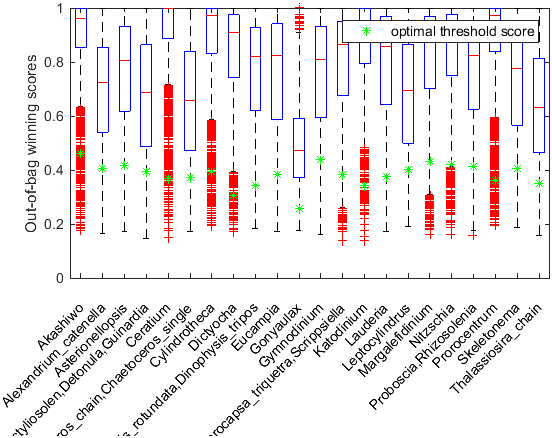
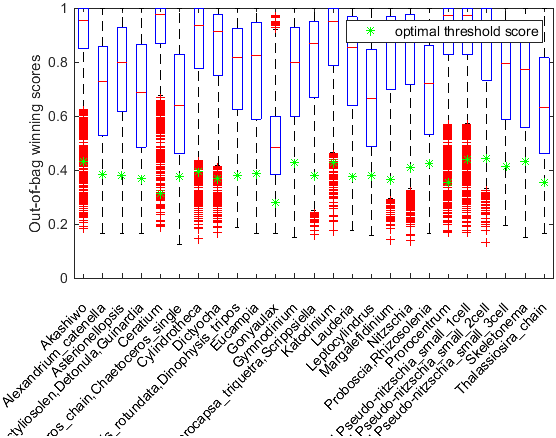
new classifier 10

diff --git a/IFCB-Tools/plot_classifier_performance.m b/IFCB-Tools/plot_classifier_performance.m
@@ -1,9 +1,9 @@
 clear;
 Mac=0;
-name='BI_v1';
+name='CCS_v10';
+%name='BI_v1';
 
 %name='BI_NOAA-OSU_v1';
-%name='CCS_NOAA-OSU_v4';
 
 if Mac
     basepath = '~/Documents/MATLAB/bloom-baby-bloom/';    
@@ -12,14 +12,14 @@ if Mac
     figpath = [filepath 'Figs/'];
 else
     basepath='C:\Users\ifcbuser\Documents\GitHub\bloom-baby-bloom\';
-    filepath = [basepath 'IFCB-Data\BuddInlet\class\'];
+    filepath = [basepath 'IFCB-Data\Shimada\class\'];
     classidx=[basepath 'IFCB-Tools\convert_index_class\class_indices.mat'];    
     figpath = [filepath 'Figs\'];    
 end
 addpath(genpath(basepath));
 
 load([filepath 'performance_classifier_' name],'topfeat','maxthre','all','opt','thr','c_thr','c_all','c_opt','trainingset');
-
+%%
 [~,class]=get_class_ind( all.class,'all',classidx);
 [~,classU]=get_class_ind( opt.class,'all',classidx);
 maxn=round(max([opt.total]),-2);

diff --git a/IFCB-Tools/build_classifier/train_build_classifier.m b/IFCB-Tools/build_classifier/train_build_classifier.m
@@ -24,7 +24,8 @@ clearvars  mergedpath UCSCpath SHMDApath LABpath BUDDpath OSUpath;
 
 %% Step 2: select classes of interest and find class2skip
 % Regional CCS classifier
-load([filepath 'bloom-baby-bloom\NOAA\SeascapesProject\Data\seascape_topclasses'],'SS');
+load([filepath 'bloom-baby-bloom\NOAA\Shimada\Data\seascape_topclasses'],'SS');
+
 [class2skip] = find_class2skip(class2useName,SS(end).topclasses);
 class2skip(end+1)={'Bacteriastrum'};
 class2skip(end+1)={'Thalassiosira_single'};
@@ -34,6 +35,7 @@ class2skip(end+1)={'nanoplankton'};
 class2skip(end+1)={'cryptophyta'};
 class2skip(end+1)={'Pseudo-nitzschia'};
 class2skip(end+1)={'Dinophysis'};
+class2skip(end+1)={'Gonyaulax'};
 
 % % Budd Inlet
 % load([filepath 'bloom-baby-bloom\IFCB-Data\BuddInlet\manual\TopClasses'],'topclasses');
